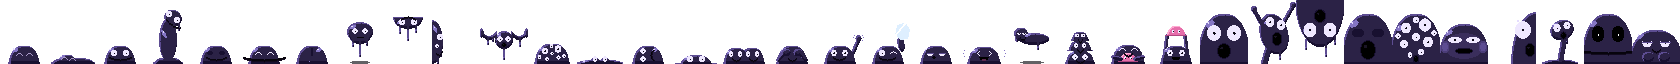
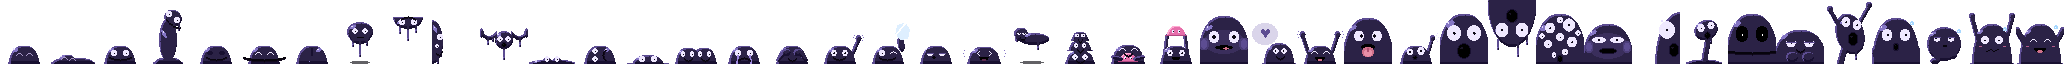
The Hall of Reflections: their looks, again: too many eyes and no face out, weeping goo in, and two new sets. Right behind a pane between you, mostly up against the glass (drawn leaning to it): its face squashed on it, a heart drawn in its breath, waving in, licking it, knocking. One step off, caugh

diff --git a/MirrorTrial.js b/MirrorTrial.js
@@ -7,8 +7,9 @@
 // sleep at first, and stay asleep till you come too near or make a noise (a dash, a knock on a pane, a stand turned), and
 // every fragment of the way out you take wakes another. Awake, they're bigger than you and they move only while nothing
 // sees them, never while you watch, and only ever in still poses, a new one each step: asleep, looking like you; awake and
-// wrong, or toying with you (waving, peekaboo, up the wall, holding your decoy...); close, your own face, huge and much too
-// near, BOO, dropped down from the ceiling... They giggle (where they are, to your ears) when they wake
+// wrong, or toying with you (waving, peekaboo, up the wall, holding your decoy...); through a pane, up against the glass
+// (squashing its face on it, a heart in its breath...); close, your own face, huge and much too near, dropped down from the
+// ceiling...; a step off, caught just before it got you (mid-reach, sneaking up, mid-BOO, going for a hug). They giggle (where they are, to your ears) when they wake
 // and after they've made you jump. Watching them holds them, but don't meet their eyes: looking straight at one that's
 // awake fills you with dread (the screen darkens, cracks, your heart pounds) till you can't bear it and look away, and for a
 // moment nothing watches them. In a reflection they can't reach you that way: watch them there.
@@ -81,9 +82,11 @@ class MirrorTrial extends Phaser.Scene {
     ];
     static DIRS = [[0, -1], [1, 0], [0, 1], [-1, 0]];   // north, east, south, west
     // their looks (mt_twin, a strip: scratchpad art states.mjs --game): asleep; seen from afar (awake and wrong, or toying with you:
-    // waving, peekaboo, on the ceiling, up the wall, holding your decoy...); up close (your face, BOO, dropped down, peeking in...);
-    // FACE, the one a prank slams into you; CORRIDOR, the ones holding a corridor's walls (only where it runs toward you)
-    static POSES = { SLEEP: [0, 1], FAR: [2, 24], NEAR: [25, 34], FACE: 25, CORRIDOR: [9, 10] };
+    // waving, peekaboo, on the ceiling, up the wall, holding your decoy...); right behind a pane between you, up against the glass
+    // (face squashed on it, a heart in its breath, waving in, licking it, knocking); two away (your face, dropped down, peeking
+    // in...); one away, caught in time just before it got you (mid-reach, sneaking, mid-BOO, going for a hug, BOO); FACE, the one
+    // a prank slams into you; CORRIDOR, the ones holding a corridor's walls (only where it runs toward you)
+    static POSES = { SLEEP: [0, 1], FAR: [2, 24], GLASS: [25, 29], NEAR: [30, 37], CLOSE: [38, 42], FACE: 30, CORRIDOR: [9, 10] };
     static TEX = ['mt_wall', 'mt_glass', 'mt_mirror', 'mt_broken', 'mt_self', 'mt_twin', 'mt_shard', 'mt_pickup', 'mt_decoy', 'mt_mark_m', 'mt_mark_g', 'mt_sentry', 'mt_glorp', 'mt_items'];
     static BAYER = [0, 8, 2, 10, 12, 4, 14, 6, 3, 11, 1, 9, 15, 7, 13, 5].map(v => (v + 0.5) / 16 - 0.5);
 
@@ -735,12 +738,17 @@ class MirrorTrial extends Phaser.Scene {
         if (nx === me.x && ny === me.y) return this._prank(e);
         e.x = nx; e.y = ny;
         this.closest = Math.min(this.closest, Math.abs(nx - me.x) + Math.abs(ny - me.y));
-        // a new look for how near it is (never the one it had); the ones holding a corridor's walls only in a corridor running at you
-        const P = MirrorTrial.POSES, near = path.length - 2, [lo, hi] = near >= 3 ? P.FAR : P.NEAR, along = Math.abs(nx - me.x) >= Math.abs(ny - me.y);
+        // a new look for how near it is (never the one it had): right behind a pane between you, mostly up against the glass; else
+        // by how many steps it has left (one: caught just before it got you); the ones holding a corridor's walls only in a
+        // corridor running at you
+        const P = MirrorTrial.POSES, near = path.length - 2, along = Math.abs(nx - me.x) >= Math.abs(ny - me.y), was = e.pose;
+        const sx = along ? Math.sign(me.x - nx) : 0, sy = along ? 0 : Math.sign(me.y - ny), pane = this.map[ny + sy]?.[nx + sx];
+        const glass = (pane === 'M' || pane === 'G') && Math.abs(along ? me.x - nx : me.y - ny) >= 2 && Math.random() < 0.75;
+        const [lo, hi] = glass ? P.GLASS : near >= 3 ? P.FAR : near === 2 ? P.NEAR : P.CLOSE;
         const walled = along ? !this._open(nx, ny - 1) && !this._open(nx, ny + 1) : !this._open(nx - 1, ny) && !this._open(nx + 1, ny);
-        const looks = []; for (let f = lo; f <= hi; f++) if (f !== e.pose && (walled || !P.CORRIDOR.includes(f))) looks.push(f);
-        if (near <= 2 && e.pose < P.NEAR[0]) e.fresh = true;   // (turned horrible: the first time you see it, the sting)
-        e.pose = looks[Math.floor(Math.random() * looks.length)];
+        const looks = []; for (let f = lo; f <= hi; f++) if (f !== was && (walled || !P.CORRIDOR.includes(f))) looks.push(f);
+        e.pose = looks[Math.floor(Math.random() * looks.length)]; e.lean = glass ? [sx, sy] : null;
+        if (was < P.NEAR[0] && e.pose >= P.NEAR[0]) e.fresh = true;   // (turned horrible: the first time you see it, the sting)
         this._hear(e);
     }
     // where one is, to your ears: left or right of the way you face, louder the nearer, dull through stone (null: too far off)
@@ -759,7 +767,7 @@ class MirrorTrial extends Phaser.Scene {
     // one wakes: its eyes open (seen as it happens: a jolt)
     _wake(e) {
         if (e.awake) return;
-        e.awake = true; e.pose = MirrorTrial.POSES.FAR[0]; e.t = -MirrorTrial.CFG.WAKE.MS;   // (coming to: a moment before its first step, to see it coming)
+        e.awake = true; e.pose = MirrorTrial.POSES.FAR[0]; e.lean = null; e.t = -MirrorTrial.CFG.WAKE.MS;   // (coming to: a moment before its first step, to see it coming)
         Sfx.play(this, 'tell'); this.time.delayedCall(500, () => !this.caught && this._giggle(e));
         this._note('SOMETHING WOKE UP. IT WANTS TO PLAY.');
         if (e.seen) { this.tweens.killTweensOf(this.stingWash); this.stingWash.setAlpha(0.25); this.tweens.add({ targets: this.stingWash, alpha: 0, duration: 500 }); this.cameras.main.shake(140, 0.006); }
@@ -814,7 +822,7 @@ class MirrorTrial extends Phaser.Scene {
         const far = [];
         this.map.forEach((row, y) => row.forEach((c, x) => { if (c === '.' && Math.abs(x - this.me.x) + Math.abs(y - this.me.y) >= 8 && !this.ents.some(o => o.x === x && o.y === y)) far.push([x, y]); }));
         if (far.length) [e.x, e.y] = far[Math.floor(Math.random() * far.length)];
-        Object.assign(e, { awake: false, pose: Math.random() < 0.5 ? 0 : 1, t: 0, fresh: false, shy: 0 });
+        Object.assign(e, { awake: false, pose: Math.random() < 0.5 ? 0 : 1, t: 0, fresh: false, shy: 0, lean: null });
     }
     // held in a reflection long enough: it doesn't like being caught there, and slinks off
     _shoo(e) {
@@ -915,7 +923,8 @@ class MirrorTrial extends Phaser.Scene {
         }
         // what stands in the hall: them, the shards on the floor, and in each mirror you and them again
         const sprites = [];
-        for (const e of this.ents) sprites.push({ x: e.x + 0.5, y: e.y + 0.5, k: 'mt_twin', f: e.pose, ent: e, big: C.BIG });
+        const ex = e => e.x + 0.5 + (e.lean ? e.lean[0] * 0.42 : 0), ey = e => e.y + 0.5 + (e.lean ? e.lean[1] * 0.42 : 0);   // (up against a pane: leaning to it)
+        for (const e of this.ents) sprites.push({ x: ex(e), y: ey(e), k: 'mt_twin', f: e.pose, ent: e, big: C.BIG });
         if (this.hand) sprites.push({ x: this.hand.x + 0.5, y: this.hand.y + 0.5, k: 'mt_pickup', f: 0, glint: true });
         const now = this.time.now;
         // the decoys, from whichever side you see them (its face, back, right, left: f), flickering as they give out
@@ -926,7 +935,7 @@ class MirrorTrial extends Phaser.Scene {
             sprites.push({ x: w.x + 0.5, y: w.y + 0.5, k: 'mt_decoy', f: side(w.x + 0.5, w.y + 0.5, fx, fy), glint: true, w, sq: 1 - 0.25 * sq, sw: 1 + 0.3 * sq });
         }
         for (const o of this.sentries) sprites.push({ x: o.x + 0.5, y: o.y + 0.5, k: 'mt_sentry', f: 0, glint: true });
-        if (V === this.front) for (const e of this.ents) if (e.pinged) sprites.push({ x: e.x + 0.5, y: e.y + 0.5, k: 'mt_twin', f: e.pose, big: C.BIG, xray: true });
+        if (V === this.front) for (const e of this.ents) if (e.pinged) sprites.push({ x: ex(e), y: ey(e), k: 'mt_twin', f: e.pose, big: C.BIG, xray: true });
         for (const o of this.glorps) if (!o.got) sprites.push({ x: o.x + 0.5, y: o.y + 0.5, k: 'mt_glorp', f: 0, glint: true });
         for (const o of this.items) if (!o.got) sprites.push({ x: o.x + 0.5, y: o.y + 0.5, k: 'mt_items', f: 'vdn'.indexOf(o.k), glint: true });
         const E = this.echoes[0] || { x: px, y: py, up: false };
@@ -934,7 +943,7 @@ class MirrorTrial extends Phaser.Scene {
             const m = (vx, vy) => g.diag === 'L' ? { x: g.k - vy, y: g.k - vx } : g.diag === 'R' ? { x: vy + g.k, y: vx - g.k }
                 : g.side === 0 ? { x: 2 * g.plane - vx, y: vy } : { x: vx, y: 2 * g.plane - vy };
             sprites.push({ ...m(E.x, E.y), k: 'mt_self', f: E.up ? 1 : 0, in: g.key });
-            for (const e of this.ents) sprites.push({ ...m(e.x + 0.5, e.y + 0.5), k: 'mt_twin', f: e.pose, ent: e, big: C.BIG, in: g.key });
+            for (const e of this.ents) sprites.push({ ...m(ex(e), ey(e)), k: 'mt_twin', f: e.pose, ent: e, big: C.BIG, in: g.key });
         }
         for (const g of ghosts.values()) {   // a wall mirror looked at straight on shows nothing but reflections: the slimes you set down (they're made of them)
             const m = (vx, vy) => g.side === 0 ? { x: 2 * g.plane - vx, y: vy } : { x: vx, y: 2 * g.plane - vy };
